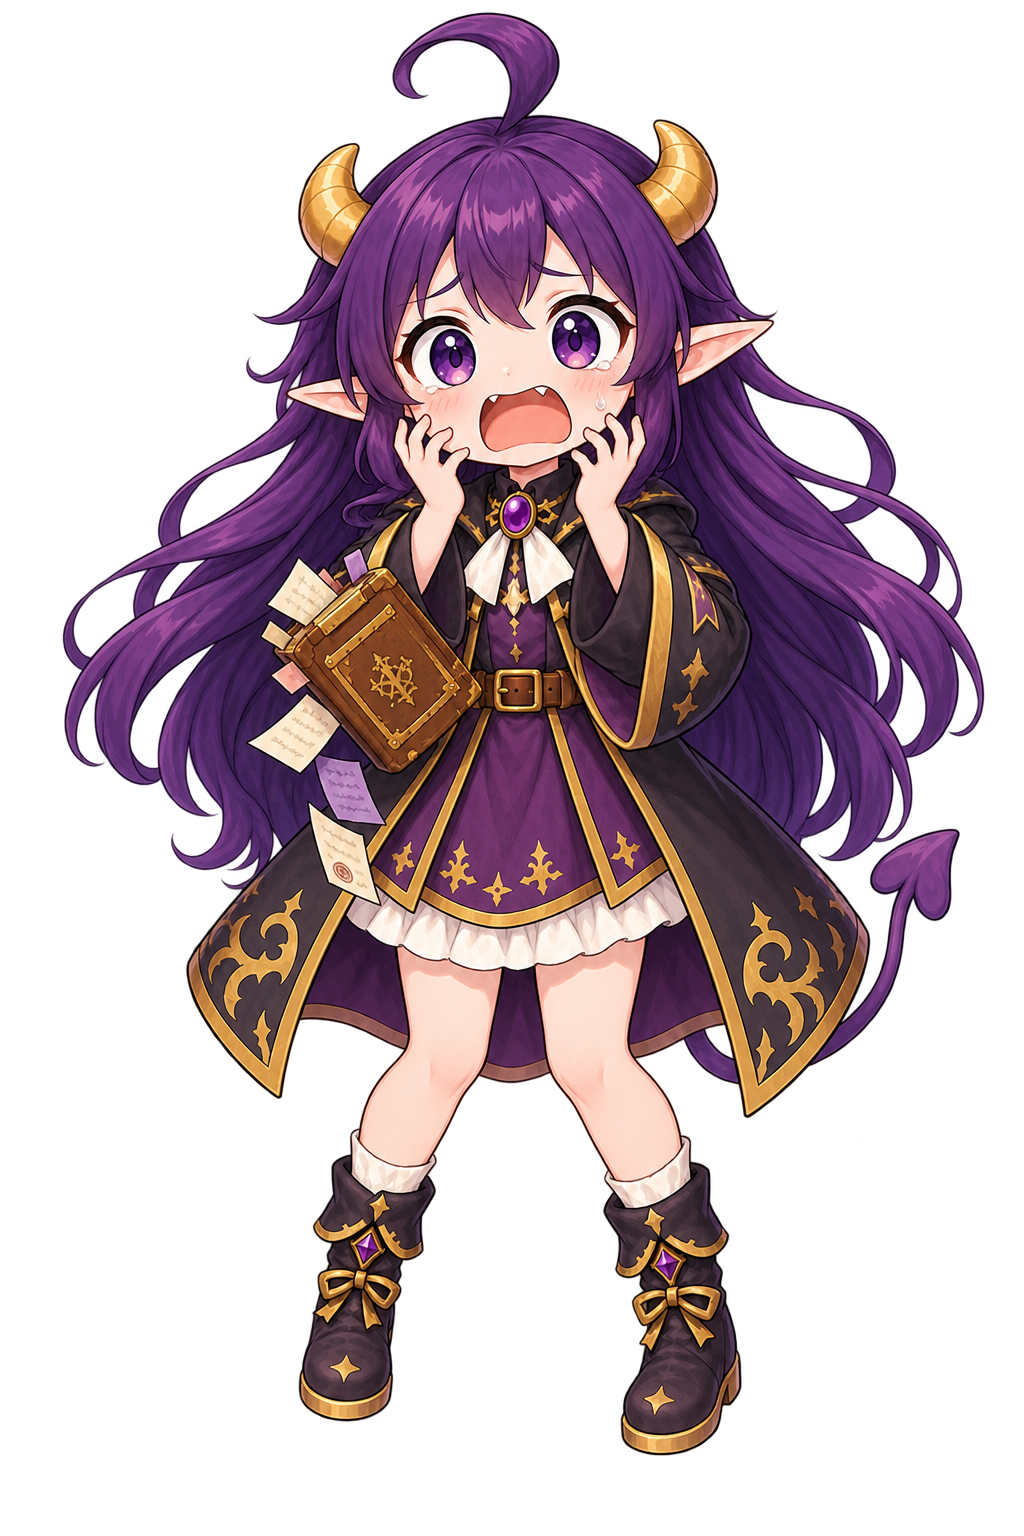
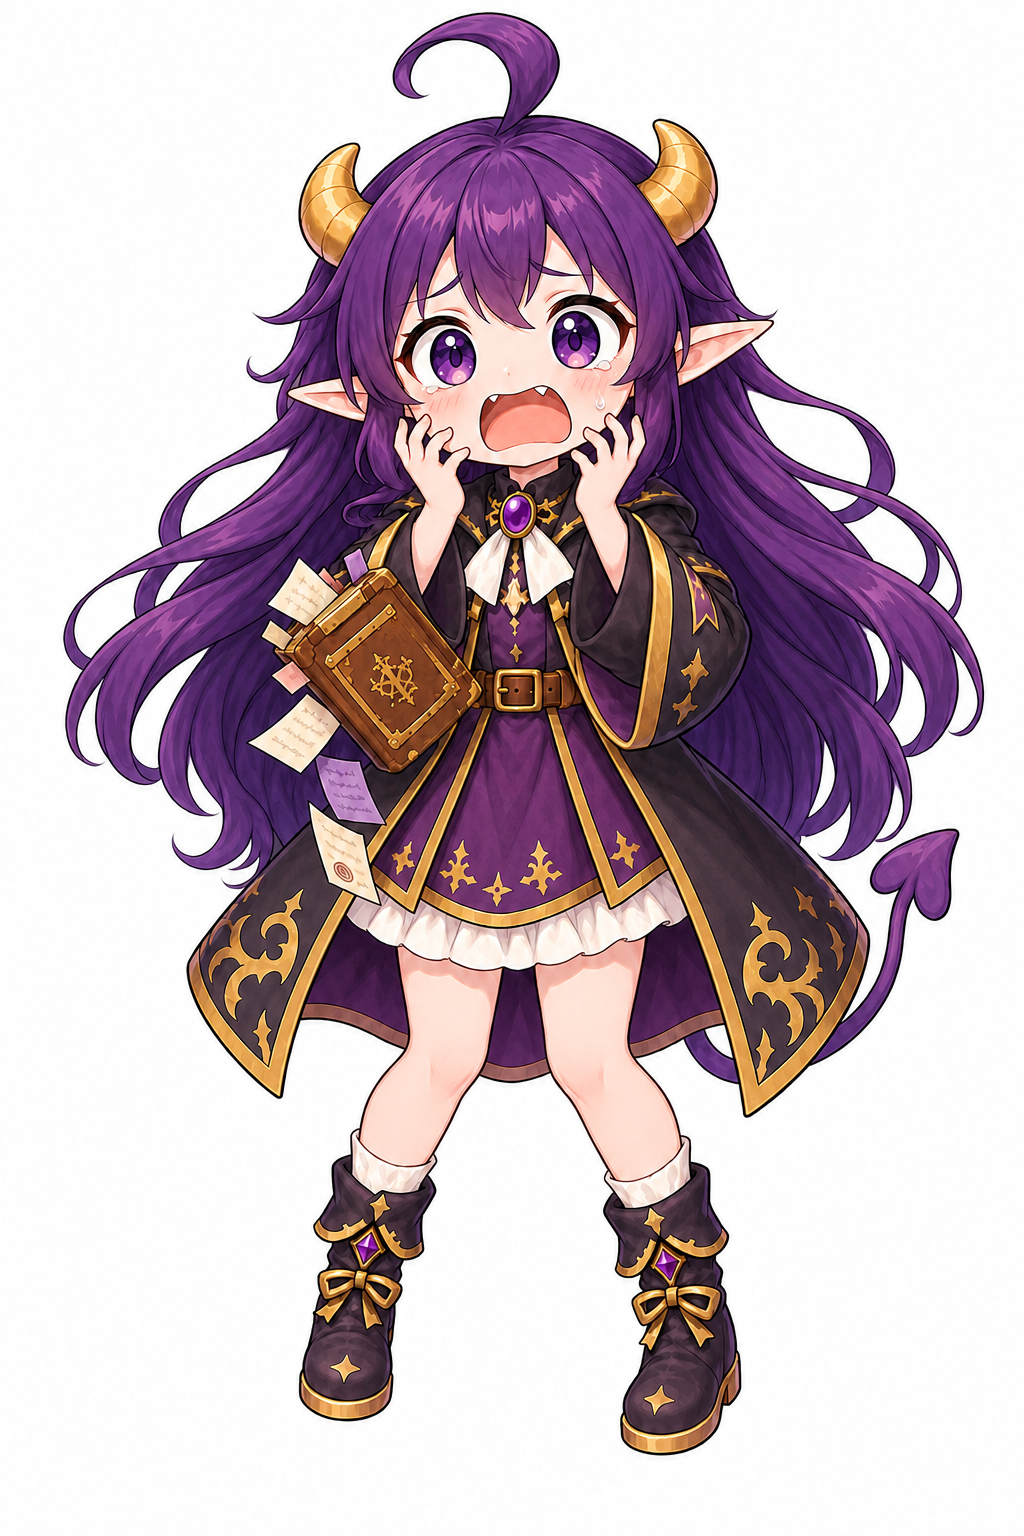
art: 女の子版モルモを正式採用

diff --git a/scripts/prepare_mormo_female.py b/scripts/prepare_mormo_female.py
@@ -1,0 +1,114 @@
+"""Prepare the accepted female Mormo drafts for the existing 512px sprite contract."""
+
+from pathlib import Path
+import sys
+
+import cv2
+import numpy as np
+from PIL import Image
+
+
+ROOT = Path(__file__).resolve().parents[1]
+SOURCE = ROOT / "assets" / "mormo" / "female"
+OUTPUT = ROOT / "assets" / "mormo"
+NAMES = ("welcome", "report", "worried", "panic", "angry", "joy")
+
+
+def extract_character(path: Path) -> Image.Image:
+    bgr = cv2.imread(str(path), cv2.IMREAD_COLOR)
+    if bgr is None:
+        raise RuntimeError(f"画像を読めません: {path}")
+
+    height, width = bgr.shape[:2]
+    hsv = cv2.cvtColor(bgr, cv2.COLOR_BGR2HSV)
+
+    # White or checkerboard extraction drafts: remove only pale pixels connected
+    # to an outer edge, so white eyes and ruffles inside the silhouette survive.
+    edge_value = np.concatenate((hsv[0, :, 2], hsv[-1, :, 2], hsv[:, 0, 2], hsv[:, -1, 2]))
+    if float(edge_value.mean()) > 180:
+        pale = ((hsv[:, :, 1] < 42) & (hsv[:, :, 2] > 175)).astype(np.uint8)
+        count, labels = cv2.connectedComponents(pale, 8)
+        edge_labels = set(labels[0, :]) | set(labels[-1, :]) | set(labels[:, 0]) | set(labels[:, -1])
+        background = np.isin(labels, list(edge_labels - {0}))
+        alpha = np.where(background, 0, 255).astype(np.uint8)
+        alpha = cv2.morphologyEx(alpha, cv2.MORPH_CLOSE, np.ones((3, 3), np.uint8))
+        alpha = cv2.GaussianBlur(alpha, (0, 0), 0.55)
+        rgba = cv2.cvtColor(bgr, cv2.COLOR_BGR2RGBA)
+        rgba[:, :, 3] = alpha
+        return Image.fromarray(rgba)
+
+    mask = np.full((height, width), cv2.GC_PR_BGD, dtype=np.uint8)
+    border = max(8, min(width, height) // 80)
+    mask[:border, :] = cv2.GC_BGD
+    mask[-border:, :] = cv2.GC_BGD
+    mask[:, :border] = cv2.GC_BGD
+    mask[:, -border:] = cv2.GC_BGD
+
+    # The accepted drafts always place Mormo in the central 82% of the canvas.
+    x0, x1 = int(width * 0.09), int(width * 0.91)
+    y0, y1 = int(height * 0.025), int(height * 0.965)
+    mask[y0:y1, x0:x1] = cv2.GC_PR_FGD
+
+    # Skin, gold trim, and saturated purple are reliable foreground seeds.
+    saturated = hsv[:, :, 1] > 62
+    warm = (hsv[:, :, 0] < 35) & (hsv[:, :, 1] > 35)
+    seed = (saturated | warm)
+    seed[:border * 2, :] = False
+    seed[-border * 2:, :] = False
+    seed[:, :border * 2] = False
+    seed[:, -border * 2:] = False
+    mask[seed] = cv2.GC_FGD
+
+    bg_model = np.zeros((1, 65), np.float64)
+    fg_model = np.zeros((1, 65), np.float64)
+    cv2.grabCut(bgr, mask, None, bg_model, fg_model, 7, cv2.GC_INIT_WITH_MASK)
+    alpha = np.where((mask == cv2.GC_FGD) | (mask == cv2.GC_PR_FGD), 255, 0).astype(np.uint8)
+
+    # Keep the main connected silhouette and nearby loose report pages.
+    count, labels, stats, _ = cv2.connectedComponentsWithStats(alpha, 8)
+    keep = np.zeros_like(alpha)
+    if count > 1:
+        main = 1 + int(np.argmax(stats[1:, cv2.CC_STAT_AREA]))
+        main_box = stats[main]
+        mx, my, mw, mh = main_box[:4]
+        for label in range(1, count):
+            x, y, w, h, area = stats[label]
+            near_main = x < mx + mw + width * 0.08 and x + w > mx - width * 0.08
+            near_main &= y < my + mh + height * 0.05 and y + h > my - height * 0.05
+            if label == main or (area > width * height * 0.00015 and near_main):
+                keep[labels == label] = 255
+    alpha = cv2.morphologyEx(keep, cv2.MORPH_CLOSE, np.ones((3, 3), np.uint8))
+    alpha = cv2.GaussianBlur(alpha, (0, 0), 0.65)
+
+    rgba = cv2.cvtColor(bgr, cv2.COLOR_BGR2RGBA)
+    rgba[:, :, 3] = alpha
+    return Image.fromarray(rgba)
+
+
+def fit_square(image: Image.Image) -> Image.Image:
+    bbox = image.getchannel("A").getbbox()
+    if not bbox:
+        raise RuntimeError("前景を抽出できませんでした")
+    cropped = image.crop(bbox)
+    cropped.thumbnail((486, 486), Image.Resampling.LANCZOS)
+    canvas = Image.new("RGBA", (512, 512), (0, 0, 0, 0))
+    x = (512 - cropped.width) // 2
+    y = max(4, (512 - cropped.height) // 2)
+    canvas.alpha_composite(cropped, (x, y))
+    return canvas
+
+
+def main() -> None:
+    selected = tuple(sys.argv[1:]) or NAMES
+    unknown = set(selected) - set(NAMES)
+    if unknown:
+        raise SystemExit(f"不明な表情名: {', '.join(sorted(unknown))}")
+    for name in selected:
+        prepared = fit_square(extract_character(SOURCE / f"{name}.png"))
+        destination = OUTPUT / f"{name}.webp"
+        prepared.save(destination, "WEBP", quality=88, method=6)
+        print(f"{name}: {destination.stat().st_size} bytes", flush=True)
+
+
+if __name__ == "__main__":
+    main()

diff --git a/HANDOFF.md b/HANDOFF.md
@@ -16,12 +16,13 @@
 
 ## 0. 次チャットの開始点（2026-09-03）
 
-### 女の子版モルモの表情候補（2026-09-03・CodeX）
+### 女の子版モルモを正式採用（2026-09-03・CodeX）
 
 オーナー提供の画面参考を基準に、`assets/mormo/female/` へ `welcome`、`report`、`worried`、
-`panic`、`angry`、`joy` のPNG候補を生成した。現行の男の子版は未変更で、ゲームからも未参照。
-生成画像には背景や市松模様が焼き込まれた候補があるため、正式採用前に6枚の選別、透過処理、
-表示サイズ統一、WebP圧縮が必要。その後に性別選択または設定値の読み込み契約を設計する。
+`panic`、`angry`、`joy` のPNG原画を生成した。オーナー承認後、背景を除去し、既存契約と同じ
+512×512の透過WebPとして `assets/mormo/*.webp` へ正式採用した。旧男の子版は
+`assets/mormo/male/` に保存している。`scripts/prepare_mormo_female.py` で原画から再生成できる。
+ブラウザテスト `mormo` で全画面表示・画像読込・報告遷移を確認済み。
 
 ### オーナー決定: 長編化はUI全面改修の後に扱う（2026-09-03）
 

diff --git a/assets/mormo/female/README.md b/assets/mormo/female/README.md
@@ -1,6 +1,8 @@
-# 女の子版モルモ（生成候補）
+# 女の子版モルモ（制作原画）
 
 `welcome.png`、`report.png`、`worried.png`、`panic.png`、`angry.png`、`joy.png` は、
-女の子版モルモの表情差分候補です。正式採用前のため、現行の `assets/mormo/*.webp` からは参照しません。
+正式採用した女の子版モルモの制作原画です。
 
-採用時は背景透過と画面内サイズを揃えて WebP 化し、性別選択の読み込み契約とテストを追加します。
+ゲームは透過・512×512へ整えた `assets/mormo/*.webp` を参照します。
+再生成は `python -X utf8 scripts/prepare_mormo_female.py` を使用します。
+旧男の子版は `assets/mormo/male/` に保存しています。

diff --git a/README.md b/README.md
@@ -102,6 +102,8 @@ GitHub Pages に置けばそのまま公開できる。
 「次へ」ボタンは押せるようになると**光る**（位置は動かさない。指を置く先が動くボタンは押しにくい）。
 読み終われば自動でも次画面へ移る。表情と報告内容は食料不足・施設完成・勝敗に応じて変わる。
 正式画像は `assets/mormo/` に置き、制作元の `img/` はゲームから直接参照しない。
+現在の正式画像は女の子版6表情。制作原画は `assets/mormo/female/`、旧男の子版は
+`assets/mormo/male/` に保存し、ゲームは従来どおり `assets/mormo/{expression}.webp` を読む。
 
 ## 戦功と昇進
 
